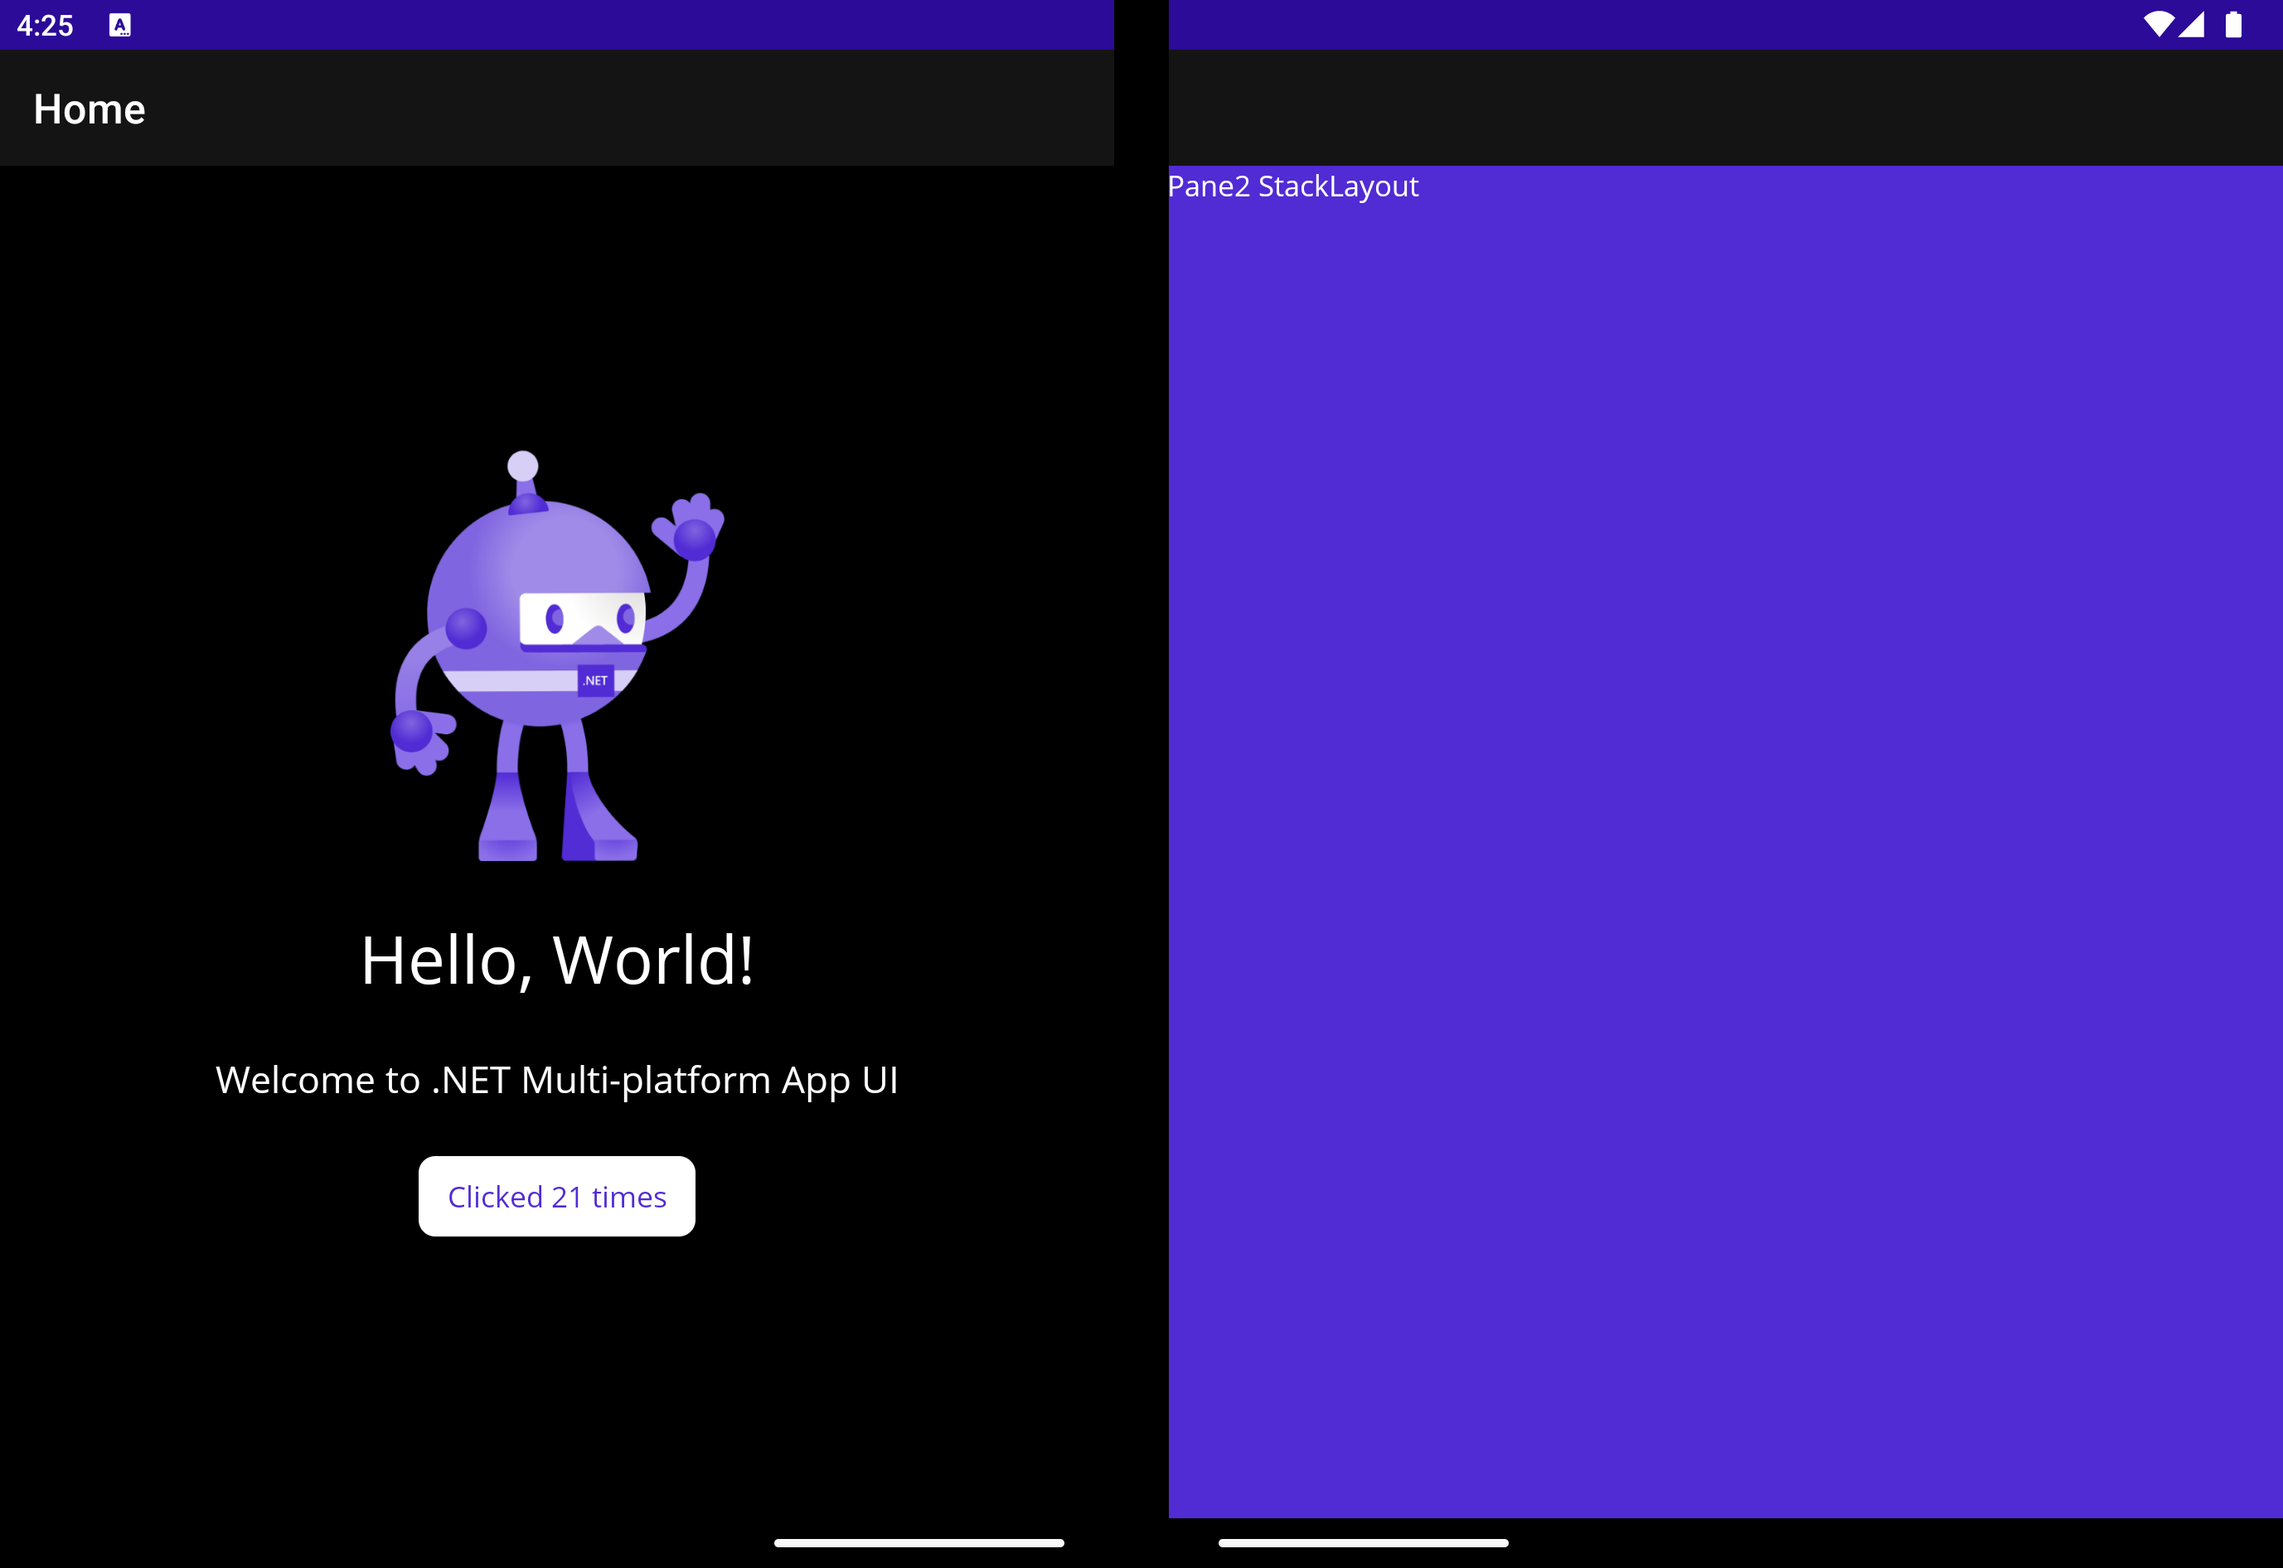
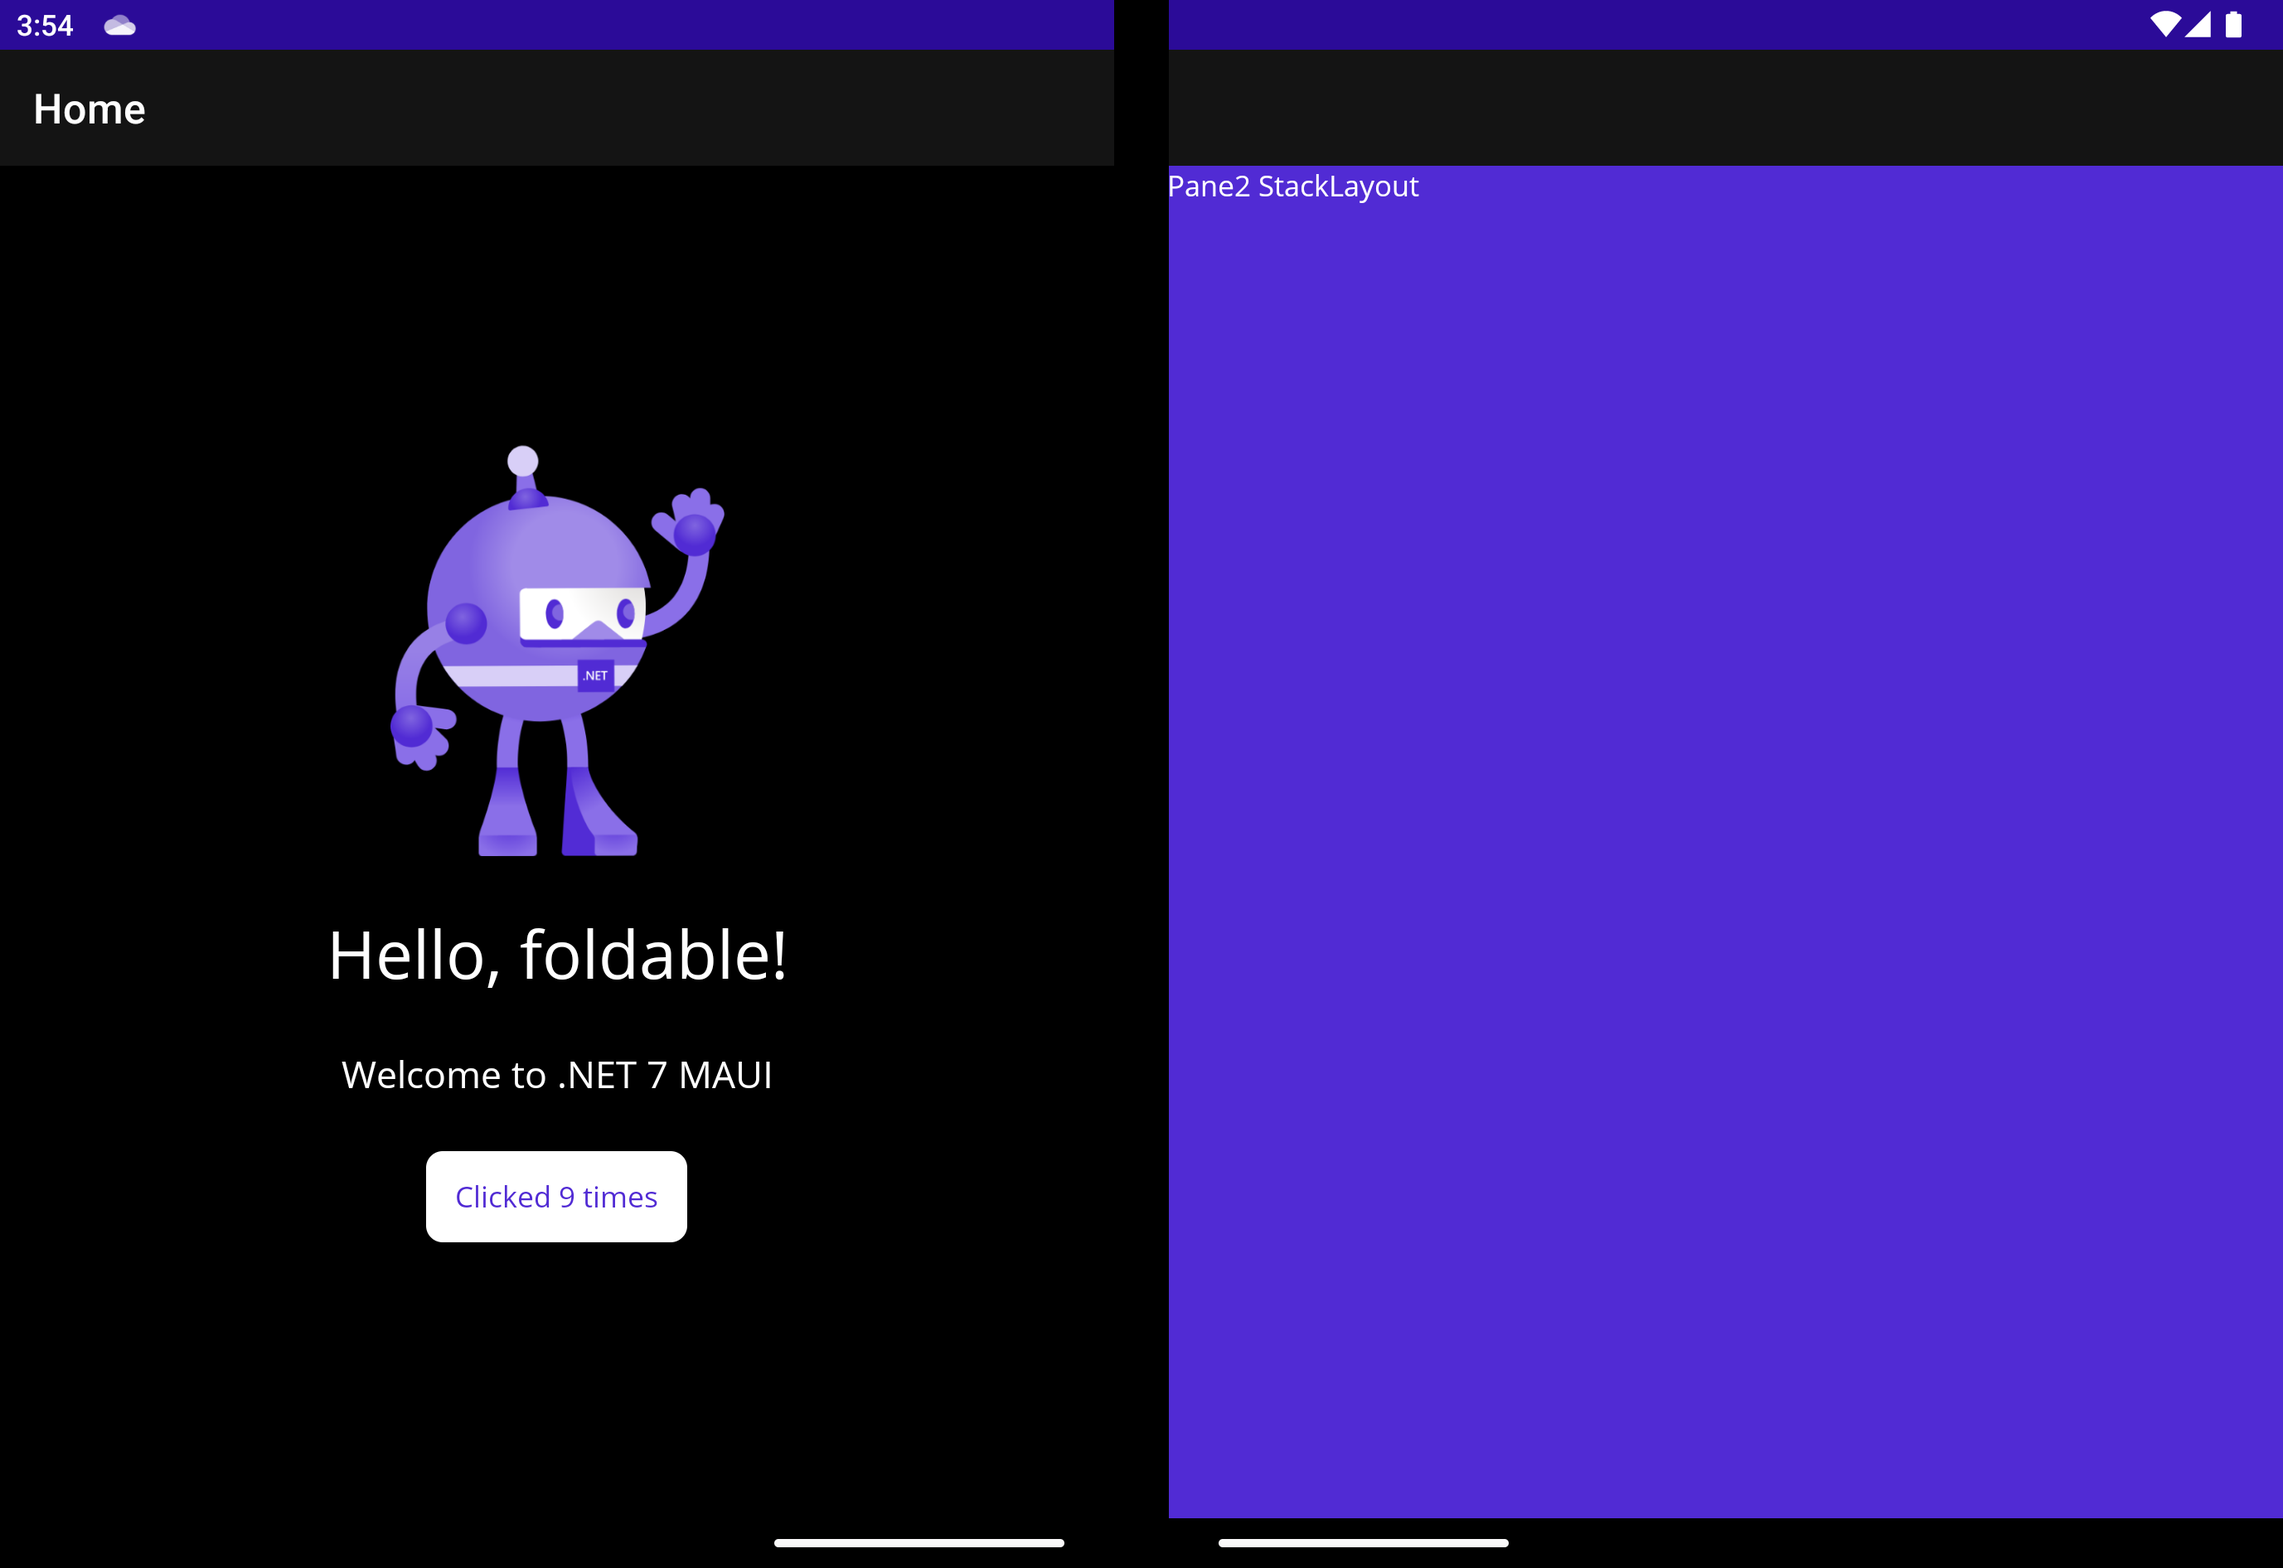
[net7] update foldable-test to RC2

diff --git a/foldable-test/Resources/Styles/Styles.xaml b/foldable-test/Resources/Styles/Styles.xaml
@@ -30,6 +30,8 @@
         <Setter Property="FontSize" Value="14"/>
         <Setter Property="CornerRadius" Value="8"/>
         <Setter Property="Padding" Value="14,10"/>
+        <Setter Property="MinimumHeightRequest" Value="44"/>
+        <Setter Property="MinimumWidthRequest" Value="44"/>
         <Setter Property="VisualStateManager.VisualStateGroups">
             <VisualStateGroupList>
                 <VisualStateGroup x:Name="CommonStates">
@@ -47,6 +49,8 @@
 
     <Style TargetType="CheckBox">
         <Setter Property="Color" Value="{AppThemeBinding Light={StaticResource Primary}, Dark={StaticResource White}}" />
+        <Setter Property="MinimumHeightRequest" Value="44"/>
+        <Setter Property="MinimumWidthRequest" Value="44"/>
         <Setter Property="VisualStateManager.VisualStateGroups">
             <VisualStateGroupList>
                 <VisualStateGroup x:Name="CommonStates">
@@ -66,6 +70,8 @@
         <Setter Property="BackgroundColor" Value="Transparent" />
         <Setter Property="FontFamily" Value="OpenSansRegular"/>
         <Setter Property="FontSize" Value="14"/>
+        <Setter Property="MinimumHeightRequest" Value="44"/>
+        <Setter Property="MinimumWidthRequest" Value="44"/>
         <Setter Property="VisualStateManager.VisualStateGroups">
             <VisualStateGroupList>
                 <VisualStateGroup x:Name="CommonStates">
@@ -86,6 +92,8 @@
         <Setter Property="FontFamily" Value="OpenSansRegular"/>
         <Setter Property="FontSize" Value="14" />
         <Setter Property="PlaceholderColor" Value="{AppThemeBinding Light={StaticResource Gray200}, Dark={StaticResource Gray500}}" />
+        <Setter Property="MinimumHeightRequest" Value="44"/>
+        <Setter Property="MinimumWidthRequest" Value="44"/>
         <Setter Property="VisualStateManager.VisualStateGroups">
             <VisualStateGroupList>
                 <VisualStateGroup x:Name="CommonStates">
@@ -106,6 +114,8 @@
         <Setter Property="FontFamily" Value="OpenSansRegular"/>
         <Setter Property="FontSize" Value="14" />
         <Setter Property="PlaceholderColor" Value="{AppThemeBinding Light={StaticResource Gray200}, Dark={StaticResource Gray500}}" />
+        <Setter Property="MinimumHeightRequest" Value="44"/>
+        <Setter Property="MinimumWidthRequest" Value="44"/>
         <Setter Property="VisualStateManager.VisualStateGroups">
             <VisualStateGroupList>
                 <VisualStateGroup x:Name="CommonStates">
@@ -131,6 +141,8 @@
         <Setter Property="BorderColor" Value="Transparent"/>
         <Setter Property="BorderWidth" Value="0"/>
         <Setter Property="CornerRadius" Value="0"/>
+        <Setter Property="MinimumHeightRequest" Value="44"/>
+        <Setter Property="MinimumWidthRequest" Value="44"/>
         <Setter Property="VisualStateManager.VisualStateGroups">
             <VisualStateGroupList>
                 <VisualStateGroup x:Name="CommonStates">
@@ -147,6 +159,7 @@
 
     <Style TargetType="Label">
         <Setter Property="TextColor" Value="{AppThemeBinding Light={StaticResource Gray900}, Dark={StaticResource White}}" />
+        <Setter Property="BackgroundColor" Value="Transparent" />
         <Setter Property="FontFamily" Value="OpenSansRegular" />
         <Setter Property="FontSize" Value="14" />
         <Setter Property="VisualStateManager.VisualStateGroups">
@@ -174,6 +187,8 @@
         <Setter Property="BackgroundColor" Value="Transparent" />
         <Setter Property="FontFamily" Value="OpenSansRegular"/>
         <Setter Property="FontSize" Value="14"/>
+        <Setter Property="MinimumHeightRequest" Value="44"/>
+        <Setter Property="MinimumWidthRequest" Value="44"/>
         <Setter Property="VisualStateManager.VisualStateGroups">
             <VisualStateGroupList>
                 <VisualStateGroup x:Name="CommonStates">
@@ -206,10 +221,12 @@
     </Style>
 
     <Style TargetType="RadioButton">
-        <Setter Property="Background" Value="Transparent"/>
+        <Setter Property="BackgroundColor" Value="Transparent"/>
         <Setter Property="TextColor" Value="{AppThemeBinding Light={StaticResource Black}, Dark={StaticResource White}}" />
         <Setter Property="FontFamily" Value="OpenSansRegular"/>
         <Setter Property="FontSize" Value="14"/>
+        <Setter Property="MinimumHeightRequest" Value="44"/>
+        <Setter Property="MinimumWidthRequest" Value="44"/>
         <Setter Property="VisualStateManager.VisualStateGroups">
             <VisualStateGroupList>
                 <VisualStateGroup x:Name="CommonStates">
@@ -333,9 +350,11 @@
 
     <Style TargetType="TimePicker">
         <Setter Property="TextColor" Value="{AppThemeBinding Light={StaticResource Gray900}, Dark={StaticResource White}}" />
-        <Setter Property="Background" Value="Transparent"/>
+        <Setter Property="BackgroundColor" Value="Transparent"/>
         <Setter Property="FontFamily" Value="OpenSansRegular"/>
         <Setter Property="FontSize" Value="14"/>
+        <Setter Property="MinimumHeightRequest" Value="44"/>
+        <Setter Property="MinimumWidthRequest" Value="44"/>
         <Setter Property="VisualStateManager.VisualStateGroups">
             <VisualStateGroupList>
                 <VisualStateGroup x:Name="CommonStates">

diff --git a/foldable-test/MainPage.xaml b/foldable-test/MainPage.xaml
@@ -1,44 +1,44 @@
 <?xml version="1.0" encoding="utf-8" ?>
 <ContentPage xmlns="http://schemas.microsoft.com/dotnet/2021/maui"
              xmlns:x="http://schemas.microsoft.com/winfx/2009/xaml"
-             x:Class="MauiApp3.MainPage"
+             x:Class="MauiApp4.MainPage"
              xmlns:foldable="clr-namespace:Microsoft.Maui.Controls.Foldable;assembly=Microsoft.Maui.Controls.Foldable"
              >
-
-    <foldable:TwoPaneView x:Name="twoPaneView">
+    <foldable:TwoPaneView x:Name="twoPaneView"
+                          MinWideModeWidth="1000">
         <foldable:TwoPaneView.Pane1
             BackgroundColor="#dddddd">
             <ScrollView>
                 <VerticalStackLayout
-                    Spacing="25"
-                    Padding="30,0"
-                    VerticalOptions="Center">
+                Spacing="25"
+                Padding="30,0"
+                VerticalOptions="Center">
 
                     <Image
-                        Source="dotnet_bot.png"
-                        SemanticProperties.Description="Cute dot net bot waving hi to you!"
-                        HeightRequest="200"
-                        HorizontalOptions="Center" />
+                    Source="dotnet_bot.png"
+                    SemanticProperties.Description="Cute dot net bot waving hi to you!"
+                    HeightRequest="200"
+                    HorizontalOptions="Center" />
 
                     <Label
-                        Text="Hello, World!"
-                        SemanticProperties.HeadingLevel="Level1"
-                        FontSize="32"
-                        HorizontalOptions="Center" />
+                    Text="Hello, foldable!"
+                    SemanticProperties.HeadingLevel="Level1"
+                    FontSize="32"
+                    HorizontalOptions="Center" />
 
                     <Label
-                        Text="Welcome to .NET Multi-platform App UI"
-                        SemanticProperties.HeadingLevel="Level2"
-                        SemanticProperties.Description="Welcome to dot net Multi platform App U I"
-                        FontSize="18"
-                        HorizontalOptions="Center" />
+                    Text="Welcome to .NET 7 MAUI"
+                    SemanticProperties.HeadingLevel="Level2"
+                    SemanticProperties.Description="Welcome to dot net seven Multi platform App U I"
+                    FontSize="18"
+                    HorizontalOptions="Center" />
 
                     <Button
-                        x:Name="CounterBtn"
-                        Text="Click me"
-                        SemanticProperties.Hint="Counts the number of times you click"
-                        Clicked="OnCounterClicked"
-                        HorizontalOptions="Center" />
+                    x:Name="CounterBtn"
+                    Text="Click me"
+                    SemanticProperties.Hint="Counts the number of times you click"
+                    Clicked="OnCounterClicked"
+                    HorizontalOptions="Center" />
 
                 </VerticalStackLayout>
             </ScrollView>

diff --git a/foldable-test/App.xaml b/foldable-test/App.xaml
@@ -1,8 +1,8 @@
 <?xml version = "1.0" encoding = "UTF-8" ?>
 <Application xmlns="http://schemas.microsoft.com/dotnet/2021/maui"
              xmlns:x="http://schemas.microsoft.com/winfx/2009/xaml"
-             xmlns:local="clr-namespace:MauiApp3"
-             x:Class="MauiApp3.App">
+             xmlns:local="clr-namespace:MauiApp4"
+             x:Class="MauiApp4.App">
     <Application.Resources>
         <ResourceDictionary>
             <ResourceDictionary.MergedDictionaries>

diff --git a/foldable-test/Platforms/Windows/App.xaml b/foldable-test/Platforms/Windows/App.xaml
@@ -1,8 +1,8 @@
 <maui:MauiWinUIApplication
-    x:Class="MauiApp3.WinUI.App"
+    x:Class="MauiApp4.WinUI.App"
     xmlns="http://schemas.microsoft.com/winfx/2006/xaml/presentation"
     xmlns:x="http://schemas.microsoft.com/winfx/2006/xaml"
     xmlns:maui="using:Microsoft.Maui"
-    xmlns:local="using:MauiApp3.WinUI">
+    xmlns:local="using:MauiApp4.WinUI">
 
 </maui:MauiWinUIApplication>

diff --git a/foldable-test/AppShell.xaml b/foldable-test/AppShell.xaml
@@ -1,9 +1,9 @@
 <?xml version="1.0" encoding="UTF-8" ?>
 <Shell
-    x:Class="MauiApp3.AppShell"
+    x:Class="MauiApp4.AppShell"
     xmlns="http://schemas.microsoft.com/dotnet/2021/maui"
     xmlns:x="http://schemas.microsoft.com/winfx/2009/xaml"
-    xmlns:local="clr-namespace:MauiApp3"
+    xmlns:local="clr-namespace:MauiApp4"
     Shell.FlyoutBehavior="Disabled">
 
     <ShellContent

diff --git a/foldable-test/MauiProgram.cs b/foldable-test/MauiProgram.cs
@@ -1,6 +1,7 @@
-namespace MauiApp3;
-
+using Microsoft.Extensions.Logging;
 using Microsoft.Maui.Foldable;
+
+namespace MauiApp4;
 
 public static class MauiProgram
 {
@@ -15,6 +16,9 @@ public static class MauiProgram
 				fonts.AddFont("OpenSans-Semibold.ttf", "OpenSansSemibold");
 			});
 
+#if DEBUG
+		builder.Logging.AddDebug();
+#endif
 
         // Adapt to dual-screen and foldable Android devices like Surface Duo, includes TwoPaneView layout control
         builder.UseFoldable();

diff --git a/foldable-test/MainPage.xaml.cs b/foldable-test/MainPage.xaml.cs
@@ -1,4 +1,4 @@
-namespace MauiApp3;
+namespace MauiApp4;
 
 public partial class MainPage : ContentPage
 {
@@ -7,7 +7,10 @@ public partial class MainPage : ContentPage
 	public MainPage()
 	{
 		InitializeComponent();
-	}
+
+        twoPaneView.Pane1Length = new GridLength(4, GridUnitType.Star);
+        twoPaneView.Pane2Length = new GridLength(1, GridUnitType.Star);
+    }
 
 	private void OnCounterClicked(object sender, EventArgs e)
 	{

diff --git a/foldable-test/Platforms/Android/MainActivity.cs b/foldable-test/Platforms/Android/MainActivity.cs
@@ -2,7 +2,7 @@
 using Android.Content.PM;
 using Android.OS;
 
-namespace MauiApp3;
+namespace MauiApp4;
 
 [Activity(Theme = "@style/Maui.SplashTheme", MainLauncher = true, ConfigurationChanges = ConfigChanges.ScreenSize | ConfigChanges.Orientation | ConfigChanges.UiMode | ConfigChanges.ScreenLayout | ConfigChanges.SmallestScreenSize | ConfigChanges.Density)]
 public class MainActivity : MauiAppCompatActivity

diff --git a/foldable-test/Platforms/Windows/App.xaml.cs b/foldable-test/Platforms/Windows/App.xaml.cs
@@ -3,7 +3,7 @@
 // To learn more about WinUI, the WinUI project structure,
 // and more about our project templates, see: http://aka.ms/winui-project-info.
 
-namespace MauiApp3.WinUI;
+namespace MauiApp4.WinUI;
 
 /// <summary>
 /// Provides application-specific behavior to supplement the default Application class.

diff --git a/foldable-test/Platforms/Android/MainApplication.cs b/foldable-test/Platforms/Android/MainApplication.cs
@@ -1,7 +1,7 @@
 using Android.App;
 using Android.Runtime;
 
-namespace MauiApp3;
+namespace MauiApp4;
 
 [Application]
 public class MainApplication : MauiApplication

diff --git a/foldable-test/Platforms/Tizen/Main.cs b/foldable-test/Platforms/Tizen/Main.cs
@@ -2,7 +2,7 @@ using System;
 using Microsoft.Maui;
 using Microsoft.Maui.Hosting;
 
-namespace MauiApp3;
+namespace MauiApp4;
 
 class Program : MauiApplication
 {

diff --git a/foldable-test/Platforms/MacCatalyst/AppDelegate.cs b/foldable-test/Platforms/MacCatalyst/AppDelegate.cs
@@ -1,6 +1,6 @@
 using Foundation;
 
-namespace MauiApp3;
+namespace MauiApp4;
 
 [Register("AppDelegate")]
 public class AppDelegate : MauiUIApplicationDelegate
